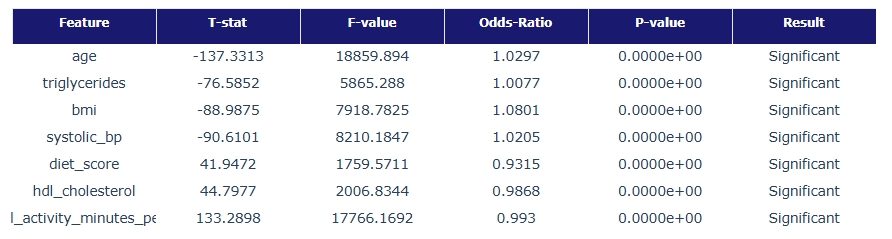
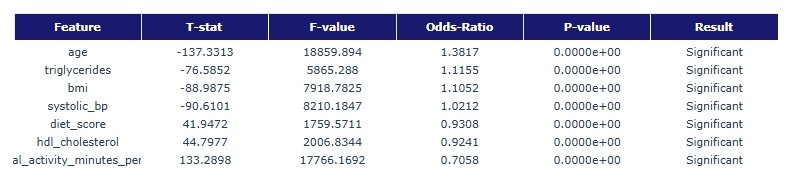
msg

diff --git a/README.md b/README.md
@@ -68,7 +68,7 @@
 <br>
 
 - **[Family_history] 와 [Hypertension]** 상관관계 통계적으로 확증함 : 가족력 있는 집단 그렇지 않은 집단에 비해 발병 위험 높게 나타났으며, 이는 유전적요인이 매우 중요한 변수임을 시사
-![당뇨 7개 핵심 위험인자 시각화](./output/데이터.png)
+![당뇨 7개 핵심 위험인자 시각화](./output/)
 ![당뇨 7개 핵심 위험인자 시각화](./output/2개%20변수%20가로막대그래프.png)
 
 ## ✔5-1. 핵심 변수 비교 분석
